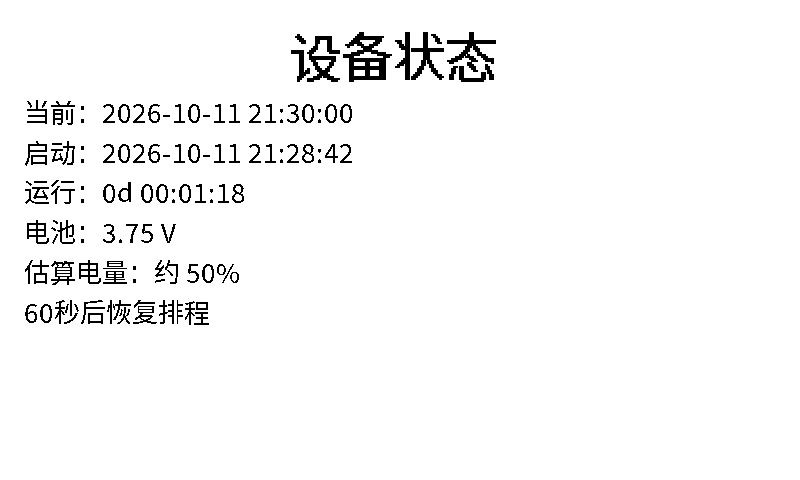
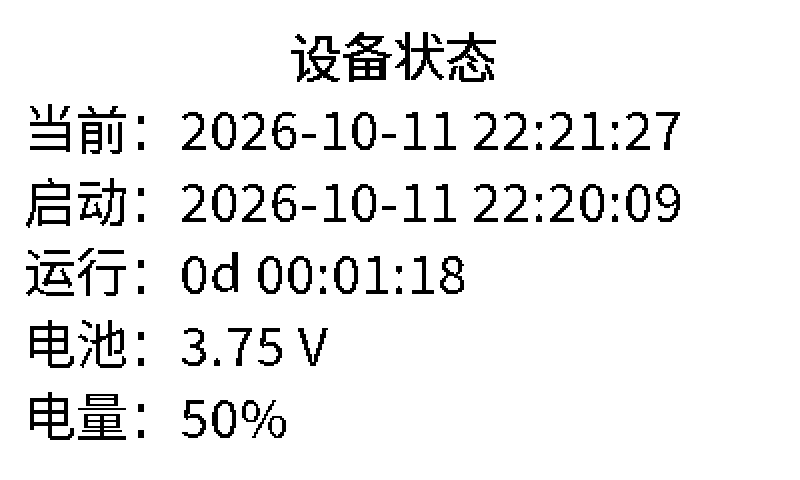
Enlarge status details into five rows under centered title

diff --git a/firmware/status_page.py b/firmware/status_page.py
@@ -88,11 +88,10 @@ def status_text(now, started, elapsed, voltage, seconds):
     minutes, seconds_elapsed = divmod(remainder, 60)
     percent = estimate_charge(voltage)
     color = "red" if percent <= 20 else "black"
-    return ('# 设备状态\n'
-            '当前：%s\n启动：%s\n运行：%dd %02d:%02d:%02d\n'
-            '电池：%.2f V\n<span style="color: %s">估算电量：约 %d%%</span>\n'
-            '%d秒后恢复排程') % (date_text(now), date_text(started), days, hours,
-                                 minutes, seconds_elapsed, voltage, color, percent, seconds)
+    return ('## 设备状态\n当前：%s\n启动：%s\n运行：%dd %02d:%02d:%02d\n'
+            '电池：%.2f V\n<span style="color: %s">电量：%d%%</span>') % (
+                date_text(now), date_text(started), days, hours,
+                minutes, seconds_elapsed, voltage, color, percent)
 
 
 def render_status(now, started, elapsed, voltage, seconds, font_path, rotation, buffer):
@@ -101,7 +100,7 @@ def render_status(now, started, elapsed, voltage, seconds, font_path, rotation, 
     font = BitmapFont(font_path)
     try:
         draw_markdown(status_text(now, started, elapsed, voltage, seconds), font, canvas,
-                      {"margin": 24, "scale": 1, "line_spacing": 8})
+                      {"margin": 24, "scale": 2, "line_spacing": 8})
     finally:
         font.close()
     if rotation == 180:

diff --git a/tests/test_status.py b/tests/test_status.py
@@ -89,8 +89,9 @@ class StatusTests(unittest.TestCase):
         text = status_text((2026, 10, 11, 21, 30, 0), (2026, 10, 10, 20, 0, 0),
                            91800, 3.75, 60)
         for value in ("2026-10-11 21:30:00", "2026-10-10 20:00:00", "1d 01:30:00",
-                      "3.75 V", "50%", "60秒"):
+                      "3.75 V", "50%"):
             self.assertIn(value, text)
+        self.assertEqual(len(text.splitlines()[1:]), 5)
 
     def test_usb_and_battery_status_restore_latest_schedule_after_sixty_seconds(self):
         for usb in (True, False):

diff --git a/docs/deployment.md b/docs/deployment.md
@@ -1,6 +1,6 @@
 # PhotoPainter (B) 部署与实机验证
 
-目标为官方示例的 `PICO_BOARD=pico2` 引脚布局。用户已确认实机基础显示、外部 RTC 校时和电池循环刷新正常。新增缓存、Markdown、日志和 NEXT 状态页通过云端验证，按键和实际耗时需在设备上继续确认；云端没有连接实物。
+目标为官方示例的 `PICO_BOARD=pico2` 引脚布局。用户已确认实机基础显示、外部 RTC 校时和电池循环刷新正常，随后日志确认了文本缓存命中、NEXT 状态页和 60 秒恢复流程。Markdown 色彩和电池状态页的按键唤醒仍需实测；云端没有连接实物。
 
 ## 准备与恢复
 
@@ -86,6 +86,8 @@ python tools/render_preview.py examples/tf-card /text/notice.md notice-preview.p
 
 ACT 在内容处理、屏幕传输/刷新期间亮，芯片运行并不必然亮灯。日志中 `fingerprint` 是输入检查，`text_cache` 是缓存读取或重建，`text_render` 只在重建时出现；`panel_init`、`frame_upload`、`panel_power_on`、`panel_refresh`、`panel_sleep` 分别对应屏幕阶段，`display` 是整个驱动过程，不能与内部阶段相加。屏幕驱动维持官方正常全屏波形，像素缓存缩短准备时间。
 
+用户提供的 USB 实机日志中，TXT 首次排版约 4.47–5.17 秒、缓存读取约 1.76 秒、屏幕 `panel_refresh` 约 19.09 秒；缓存命中后完整内容切换约 21.76 秒。这些是该设备该次运行的结果，主要耗时已在屏幕刷新阶段。
+
 ## 日志设置与读取
 
 在 TF 根目录 `config.json` 的 `logging` 对象里设置 `debug: true` 开启详细文件日志；默认 `warnings: true` 保存长期警告与异常堆栈。`directory` 默认 `/logs`，`max_bytes` 默认 65,536，`backup_count` 默认 3；每类日志最多当前文件加指定份数的历史文件。格式为 `[当地 RTC 时间] [级别] 内容`，RTC 无效时使用 `uptime_ms`，串口使用相同格式。设置在下一次唤醒/分钟检查时生效。
@@ -102,7 +104,7 @@ python -m mpremote connect COM8 reset
 
 ## NEXT 状态页检查
 
-1. 正常画面上按 NEXT，确认出现日期时间、启动时间、运行时长、电池电压与粗估电量。官方 C 示例将 GP19 低电平当按键，新增逻辑需实测该按键与关机唤醒的对应关系。
+1. 正常画面上按 NEXT，确认居中“设备状态”标题下方以默认 64 像素字高显示“当前、启动、运行、电池、电量”五行，无“约”或恢复提示。官方 C 示例将 GP19 低电平当按键；USB 状态页流程已由用户日志确认，关机唤醒的对应关系继续实测。
 2. 从状态页刷新完成起计 60 秒，确认恢复**当时最新**排程。等待中再按 NEXT，应重新采样并重新计时。默认 `status_seconds=60` 可修改。
 3. 刷新期间按键会先记录，处理后再展示状态页；不会中断正在执行的屏幕波形。
 4. 电池状态页等待期间主控保持运行，恢复画面后重新设置 RTC 并关机。无 RTC 闹钟标志的电池上电视为手动唤醒。

diff --git a/docs/product-analysis.md b/docs/product-analysis.md
@@ -68,4 +68,4 @@
 
 已实现主控端 MicroPython 程序、cron 文件路径排程、中英文 TXT/基础 Markdown、最终像素缓存、六色文字、BMP/打包六色图片、RTC 闹钟、电池关机及重启恢复、可配置日志和 NEXT 临时状态页。采用横屏 800×480，可选 0/180° 方向。
 
-用户已确认实机 RTC 校时、显示及电池定时循环刷新正常；先前 USB 设备不可见问题已确认为数据线异常。新增缓存/排版/日志/状态页通过主机测试和 320 KiB 堆的 MicroPython Unix 验证；NEXT 引脚对应、实际耗时、低压阈值、电量曲线与续航继续实测。知识库 HTTP 403 限制仍存在，不能声称读取了网页正文。
+用户已确认实机 RTC 校时、显示及电池定时循环刷新正常；先前 USB 设备不可见问题已确认为数据线异常。后续 USB 日志确认了文本缓存、NEXT 状态页和刷新完成后 60 秒恢复最新排程；缓存读取约 1.76 秒、屏幕刷新约 19.09 秒。程序通过主机测试和 320 KiB 堆的 MicroPython Unix 验证；新增五行大字状态页、Markdown 色彩、NEXT 电池关机唤醒、低压阈值、电量曲线与续航继续实测。知识库 HTTP 403 限制仍存在，不能声称读取了网页正文。
